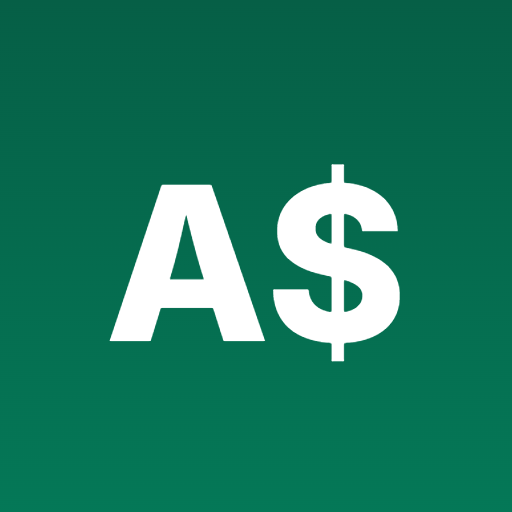
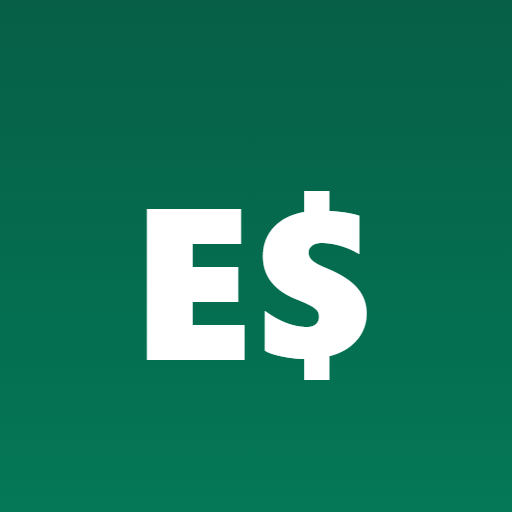
Renomeia o app para EmprestaJa (titulo, manifesto, telas e icones E$)

Changed region(s): [[0.2188, 0.3125, 0.7812, 0.75]]

diff --git a/app/src/sw.ts b/app/src/sw.ts
@@ -1,5 +1,5 @@
 /// <reference lib="webworker" />
-// Service worker do Agg de Bolso:
+// Service worker do EmprestaJá:
 // - cache/atualização automática do app (Workbox)
 // - recebimento de notificações push (mesmo com o app fechado)
 import { cleanupOutdatedCaches, precacheAndRoute } from 'workbox-precaching'
@@ -22,7 +22,7 @@ self.addEventListener('push', (event) => {
     data = { body: event.data.text() }
   }
   event.waitUntil(
-    self.registration.showNotification(data.title ?? 'Agg de Bolso', {
+    self.registration.showNotification(data.title ?? 'EmprestaJá', {
       body: data.body ?? '',
       icon: './pwa-192x192.png',
       badge: './pwa-192x192.png',

diff --git a/app/vite.config.ts b/app/vite.config.ts
@@ -15,8 +15,8 @@ export default defineConfig({
       filename: 'sw.ts',
       includeAssets: ['favicon.svg'],
       manifest: {
-        name: 'Agg de Bolso',
-        short_name: 'Agg de Bolso',
+        name: 'EmprestaJá',
+        short_name: 'EmprestaJá',
         description: 'Sua carteira de empréstimos, no bolso',
         lang: 'pt-BR',
         display: 'standalone',

diff --git a/app/index.html b/app/index.html
@@ -6,7 +6,7 @@
     <meta name="theme-color" content="#065f46" />
     <meta name="mobile-web-app-capable" content="yes" />
     <meta name="apple-mobile-web-app-status-bar-style" content="black-translucent" />
-    <title>Agg de Bolso</title>
+    <title>EmprestaJá</title>
     <link rel="icon" href="./favicon.svg" type="image/svg+xml" />
     <link rel="apple-touch-icon" href="./pwa-192x192.png" />
     <link rel="preconnect" href="https://fonts.googleapis.com" />

diff --git a/app/src/features/auth/AuthLayout.tsx b/app/src/features/auth/AuthLayout.tsx
@@ -16,7 +16,7 @@ export function AuthLayout({
       <div className="mx-auto flex min-h-dvh w-full max-w-md flex-col px-6 pb-10">
         <div className="flex flex-col items-center gap-3 pb-8 pt-16">
           <Logo size={64} light />
-          <h1 className="text-2xl font-extrabold text-white">Agg de Bolso</h1>
+          <h1 className="text-2xl font-extrabold text-white">EmprestaJá</h1>
           <p className="text-sm text-brand-200">Sua carteira de empréstimos, no bolso.</p>
         </div>
         <div className="anim-fade-up rounded-3xl bg-white p-6 shadow-2xl">

diff --git a/app/src/features/settings/SettingsPage.tsx b/app/src/features/settings/SettingsPage.tsx
@@ -152,7 +152,7 @@ export function SettingsPage() {
         </Button>
       </div>
 
-      <p className="mt-6 text-center text-xs text-ink/30">Agg de Bolso · versão 1.0</p>
+      <p className="mt-6 text-center text-xs text-ink/30">EmprestaJá · versão 2.0</p>
     </div>
   )
 }

diff --git a/app/src/shared/components/ui.tsx b/app/src/shared/components/ui.tsx
@@ -103,7 +103,7 @@ export function Logo({ size = 48, light = false }: { size?: number; light?: bool
       className={`flex items-center justify-center rounded-2xl font-extrabold
         ${light ? 'bg-brand-400/20 text-brand-400' : 'bg-brand-700 text-white'}`}
     >
-      <span style={{ fontSize: size * 0.42 }}>A$</span>
+      <span style={{ fontSize: size * 0.42 }}>E$</span>
     </div>
   )
 }